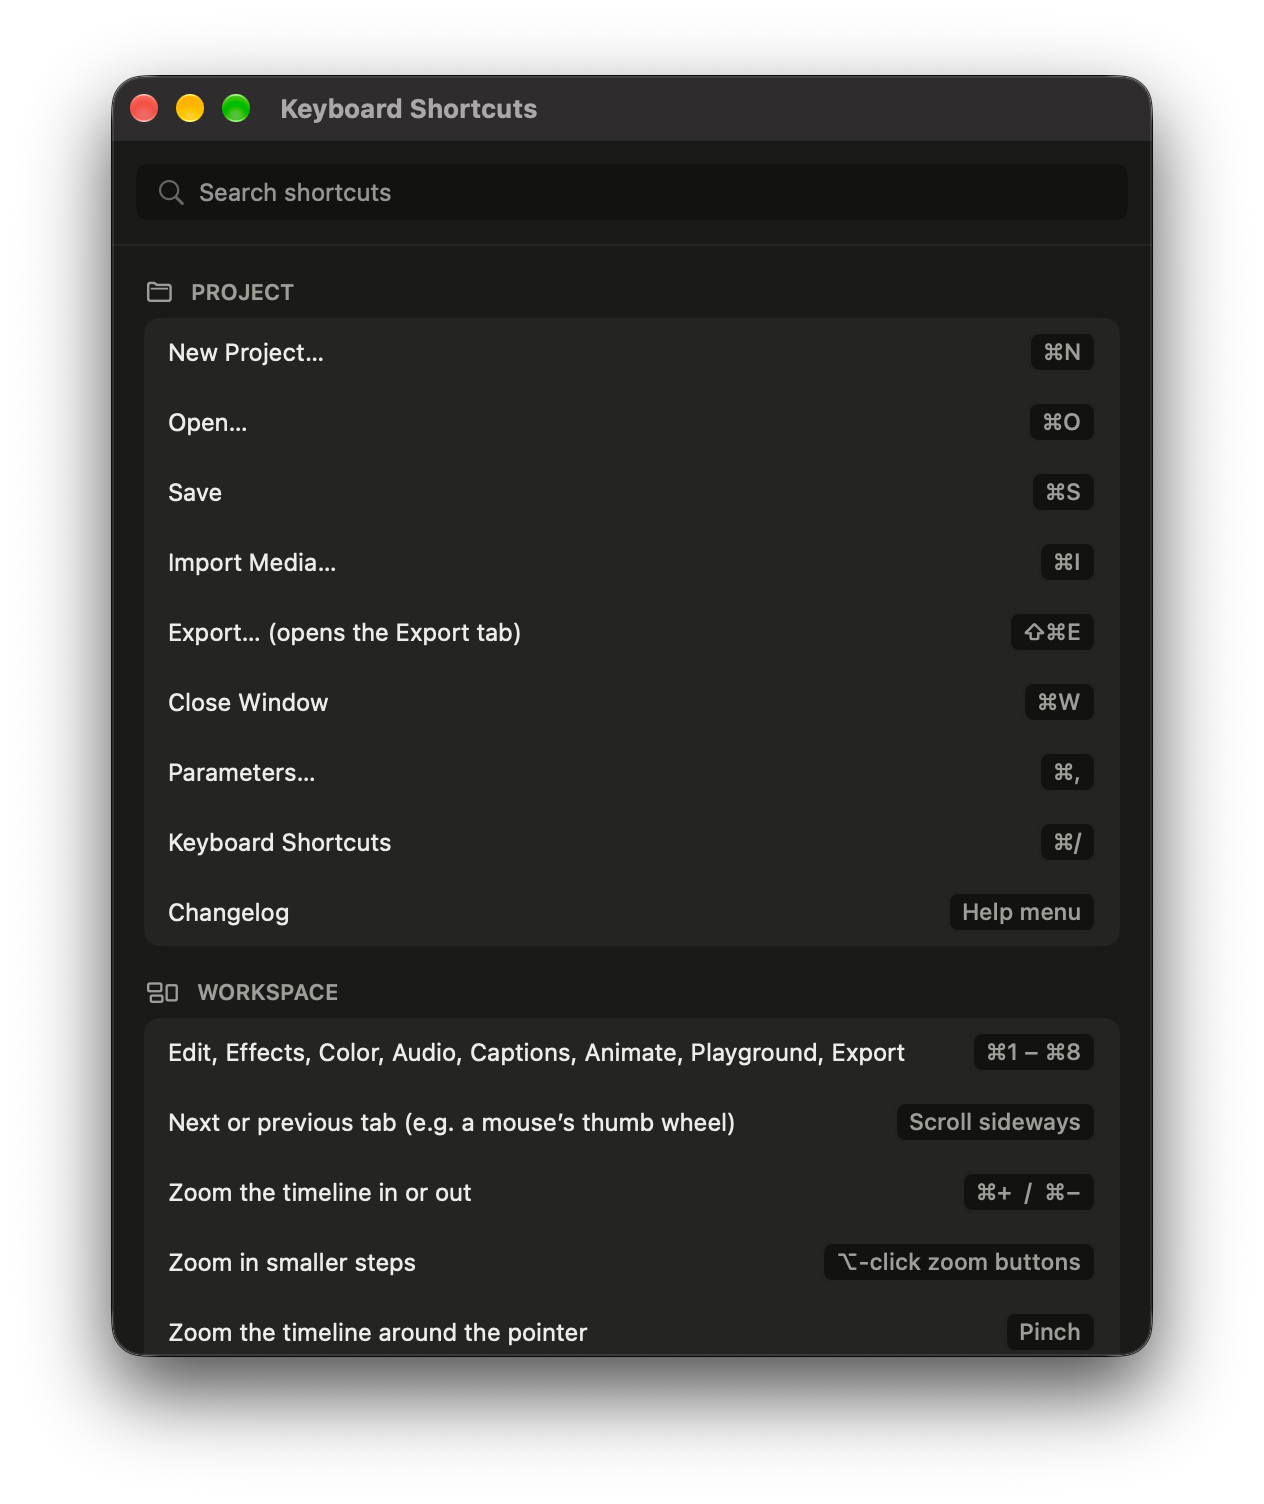
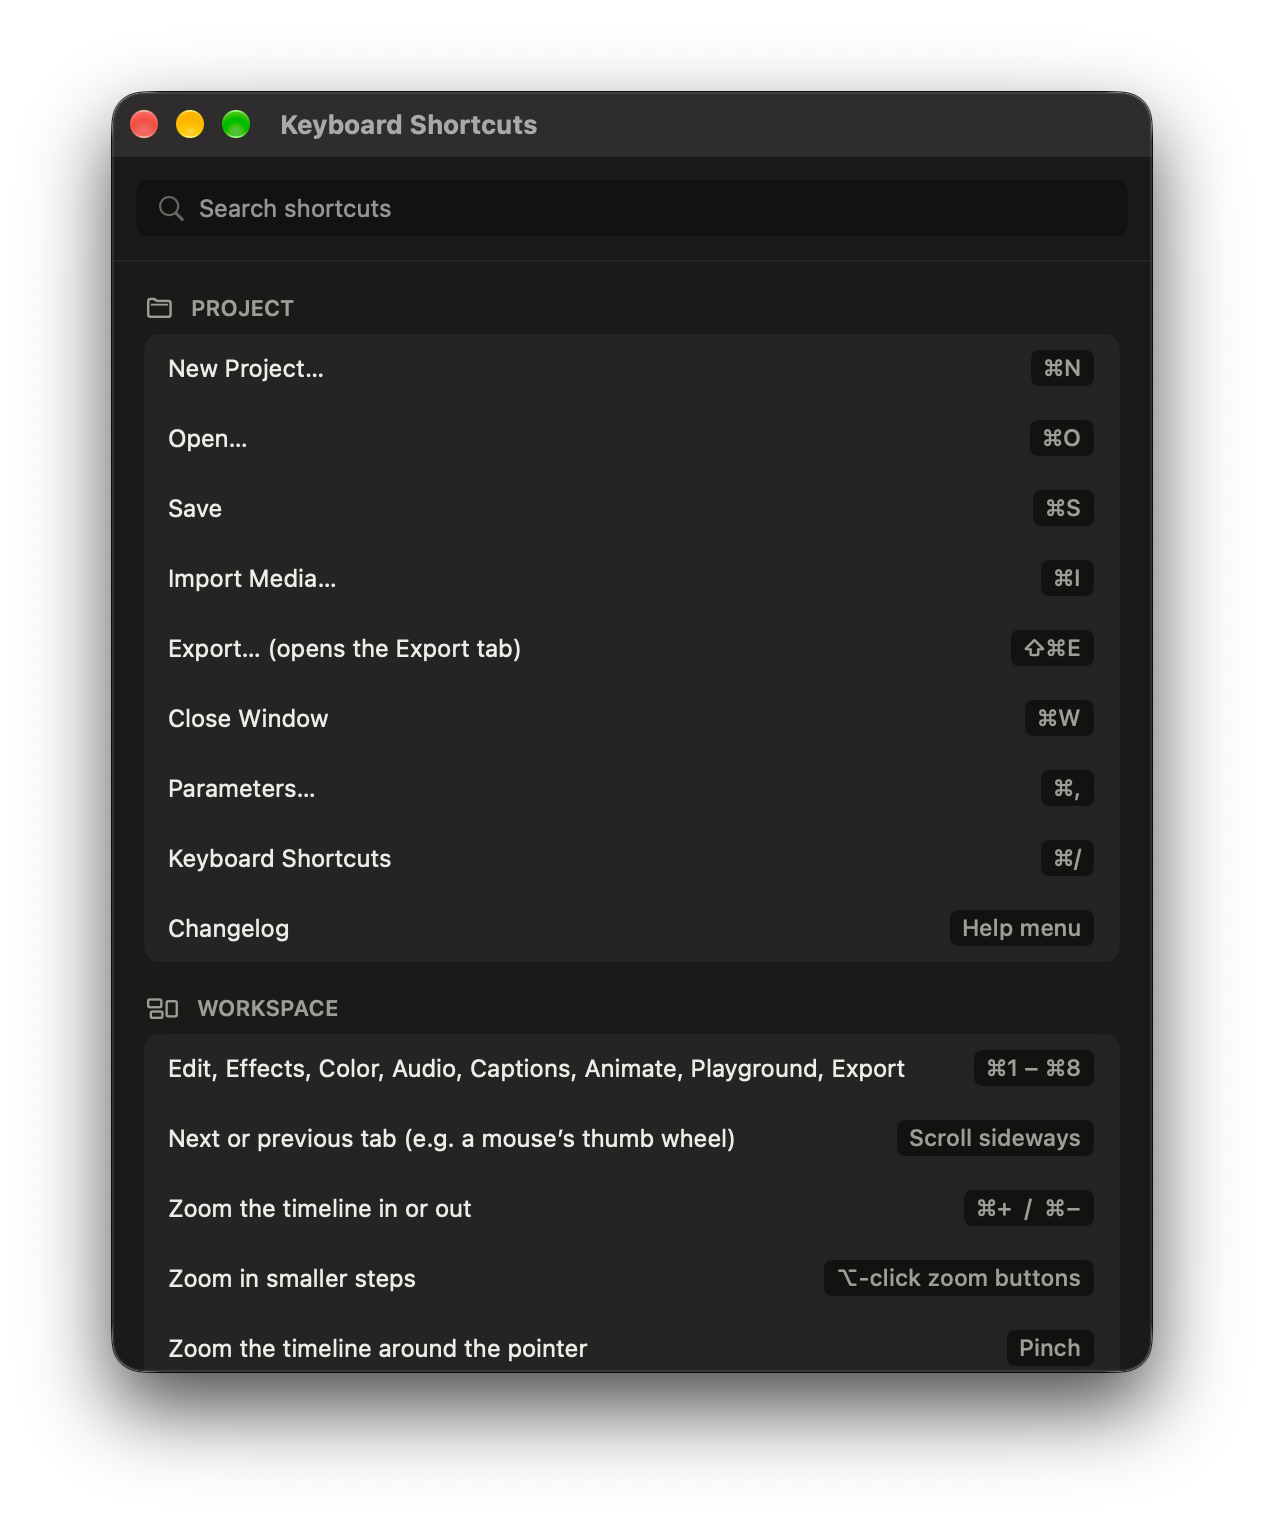
README gallery: pair screenshots of the same shape so captions line up

diff --git a/README.md b/README.md
@@ -30,8 +30,8 @@ Cutline is organized into tabs (⌘1–⌘8):
 | ![Effects tab: transitions and keyframe animation of clip parameters, with the curve editor](screenshots/effects.png) **Effects**: transitions and keyframes | ![Color tab: lift, gamma, gain and offset wheels, basic controls and a waveform scope](screenshots/color.png) **Color**: wheels, curves and scopes |
 | ![Audio tab: mixer, loudness meter with a normalize target, and track effects](screenshots/audio.png) **Audio**: mixer and loudness | ![Captions tab: transcript, caption grouping and style settings, burn-in and .srt export](screenshots/captions.png) **Captions**: transcripts and styled captions |
 | ![Animate tab: the Title template with its text, look and animation settings and a transparent preview](screenshots/animate.png) **Animate**: Manim templates and scripts | ![Playground tab: a sandbox timeline with generators, effects like RGB Split and a custom shader, and snapshots](screenshots/playground.png) **Playground**: a sandbox for ideas |
-| ![Export tab: presets such as YouTube 1080p 60, video and audio settings, captions and an estimate](screenshots/export.png) **Export**: presets and settings | ![Keyboard Shortcuts window with a search field](screenshots/keyboard-shortcuts.png) **Keyboard Shortcuts** |
-| ![Changelog window listing each version's changes with Feature and Bug Fix tags](screenshots/changelog.png) **Changelog**: what changed in each version | ![Parameters window, General tab: welcome window, automatic update checks with Check Now, and watching for missing media](screenshots/parameters.png) **Parameters**: settings, including updates |
+| ![Export tab: presets such as YouTube 1080p 60, video and audio settings, captions and an estimate](screenshots/export.png) **Export**: presets and settings | ![Parameters window, General tab: welcome window, automatic update checks with Check Now, and watching for missing media](screenshots/parameters.png) **Parameters**: settings, including updates |
+| ![Keyboard Shortcuts window with a search field](screenshots/keyboard-shortcuts.png) **Keyboard Shortcuts** | ![Changelog window listing each version's changes with Feature and Bug Fix tags](screenshots/changelog.png) **Changelog**: what changed in each version |
 
 ## Requirements
 
